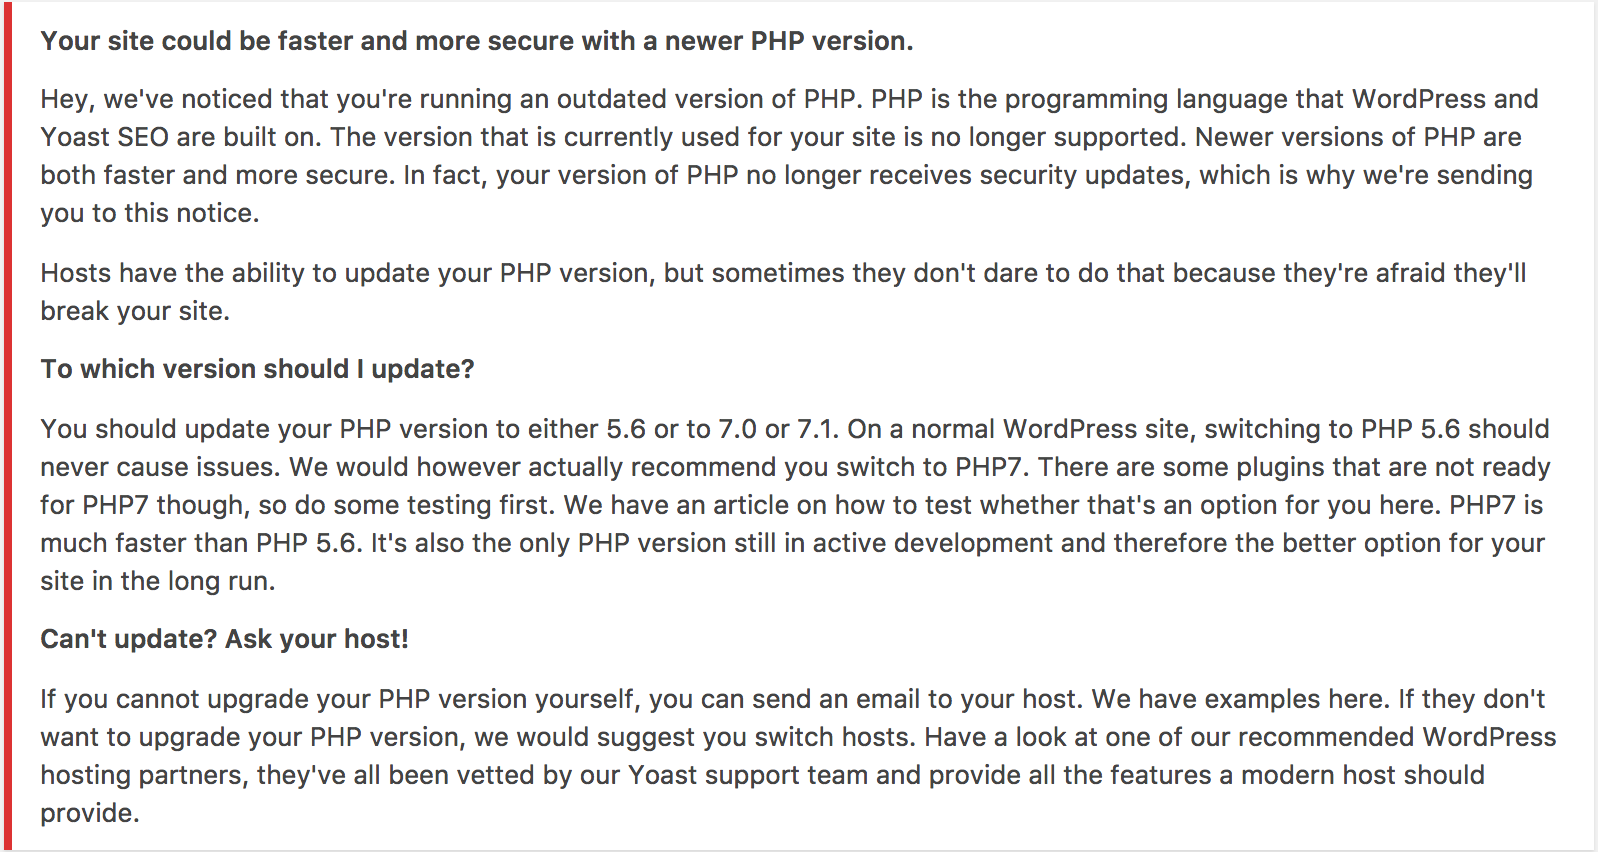
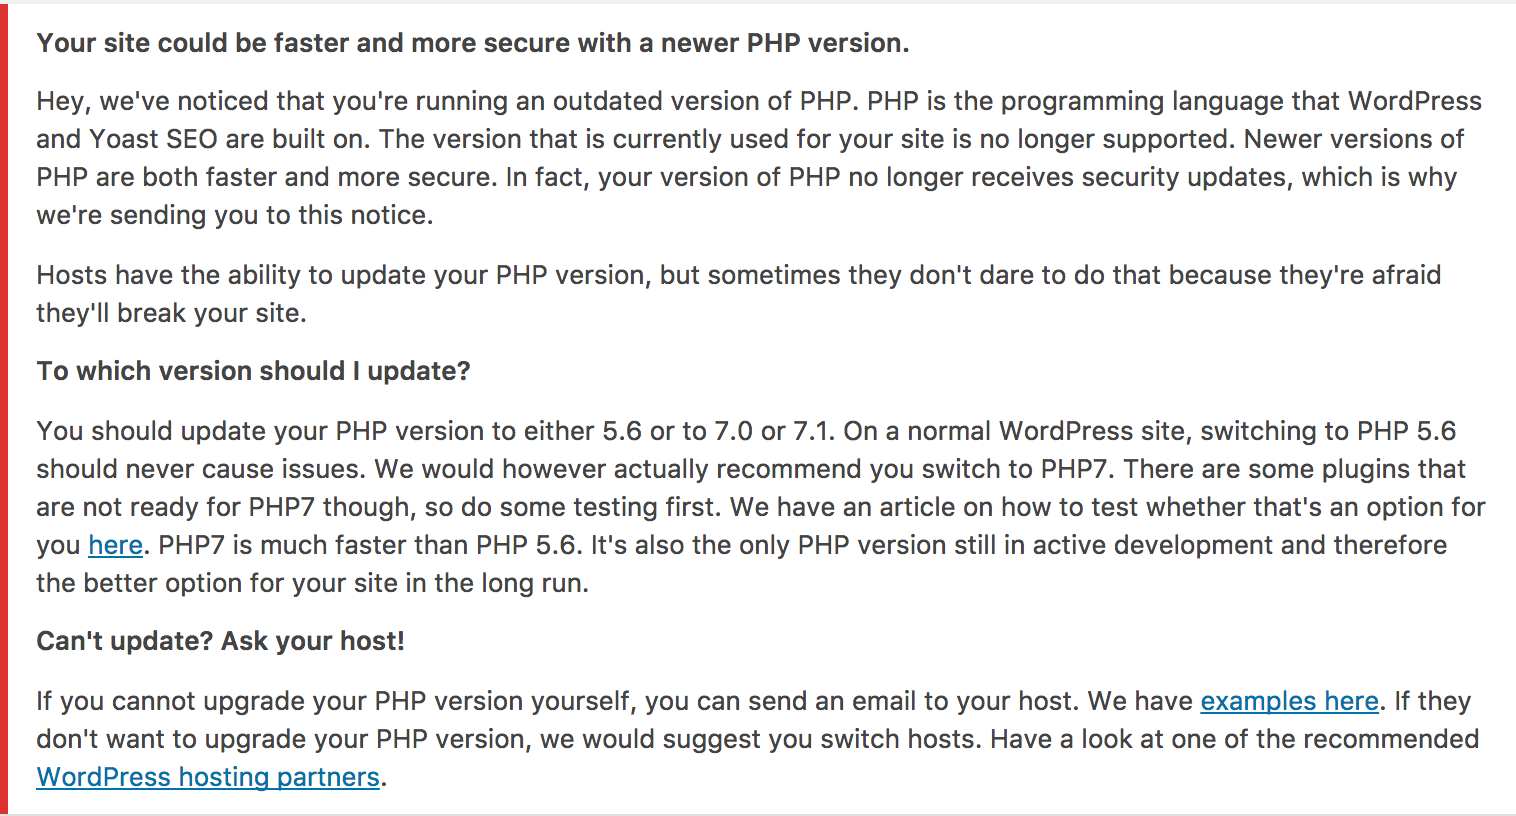
Update screenshot in README

Changed region(s): [[0.0, 0.0, 0.9921, 1.0]]

diff --git a/CHANGELOG.md b/CHANGELOG.md
@@ -5,6 +5,8 @@ The format is based on [Keep a Changelog](http://keepachangelog.com/)
 and this project adheres to [Semantic Versioning](http://semver.org/).
 
 ## [Unreleased]
+### Changed
+* Updated screenshot in README
 
 ## [1.0.0-beta.2] - 2017-03-11
 ### Added
